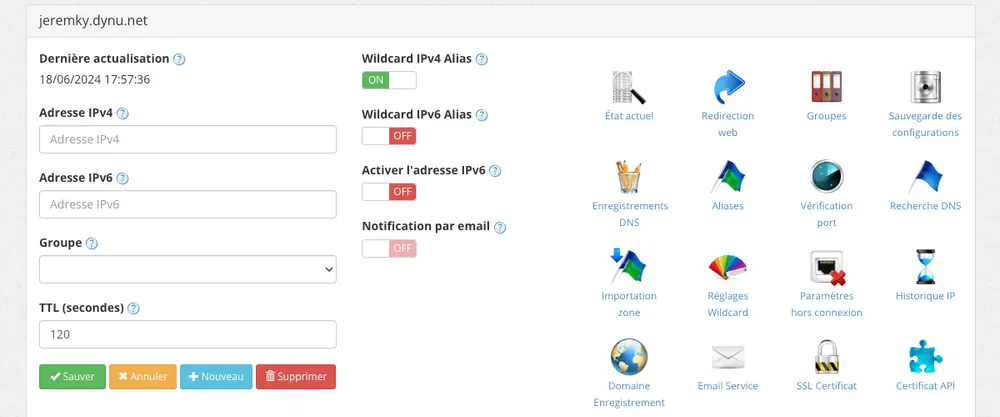
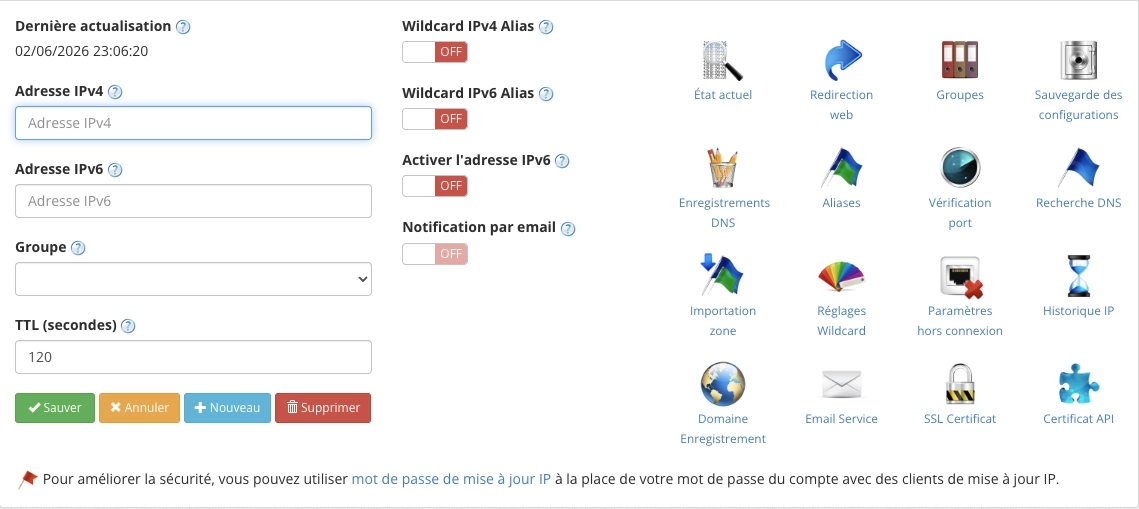
Update

Changed region(s): [[0.0, 0.0624, 0.992, 1.0], [0.0, 0.0312, 0.527, 0.6235], [0.0, 0.5612, 0.341, 0.8417]]

diff --git a/content/docs/reseau/ip-dynamique/index.md b/content/docs/reseau/ip-dynamique/index.md
@@ -28,9 +28,7 @@ Pour que la mise à jour soit automatique, plusieurs options :
 
 ### Votre box est compatible avec Dynu
 
-Les Livebox peuvent effectuer directement la mise à jour. Il suffit de se rendre dans la partie réseau, de sélectionner l'onglet `DynDNS`, et de choisir le service `GnuDIP` :
-
-![livebox](livebox.webp)
+Les Livebox peuvent effectuer directement la mise à jour. Il suffit de se rendre dans la partie réseau, de sélectionner l'onglet `DynDNS`, et de choisir le service `GnuDIP`.
 
 ### Votre box n'est pas compatible
 
@@ -80,9 +78,3 @@ sudo systemctl restart ddclient
 ```
 
 {{% /steps %}}
-
-### Vérification
-
-Sur la page de Dynu, votre IP s'est normalement mise à jour automatiquement :
-
-![update](update.webp)